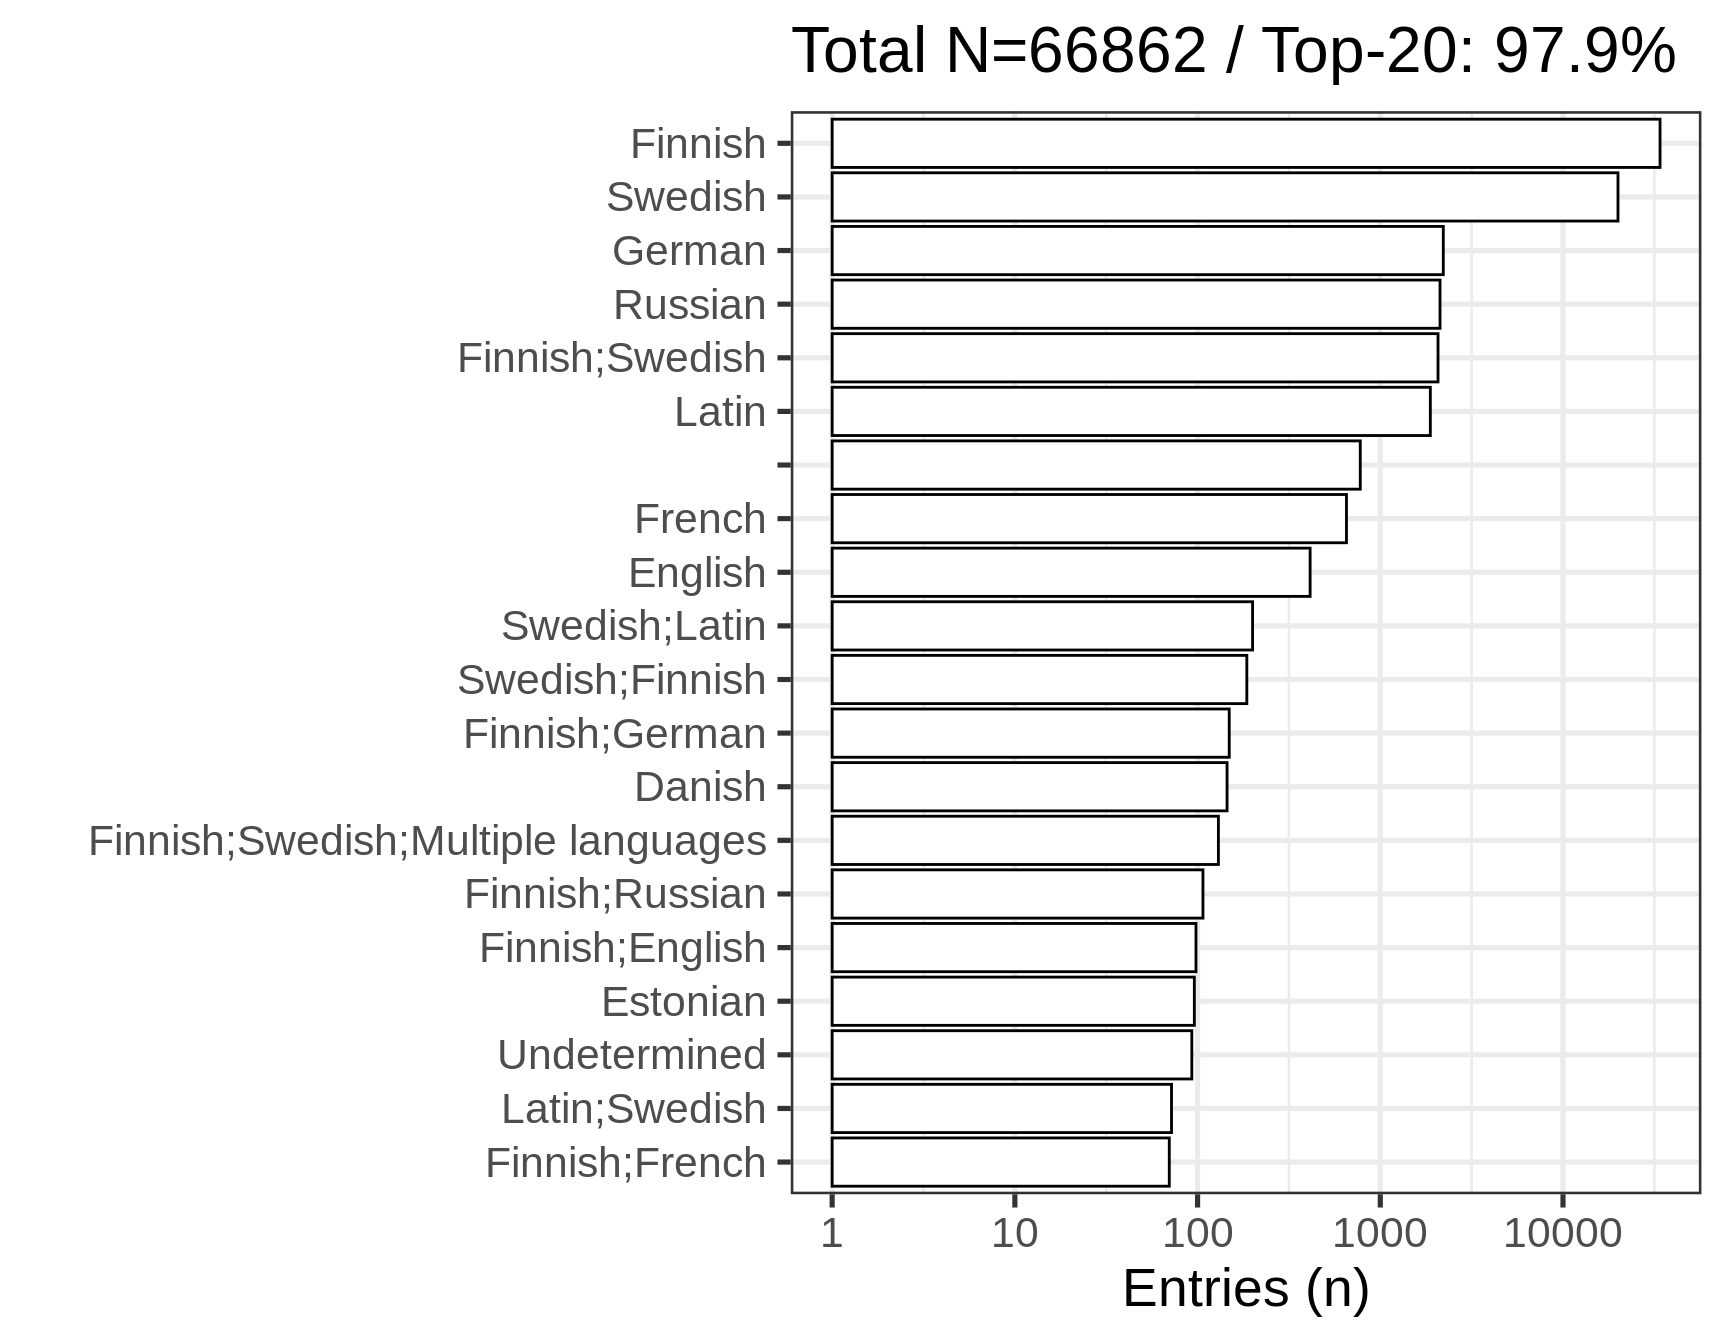
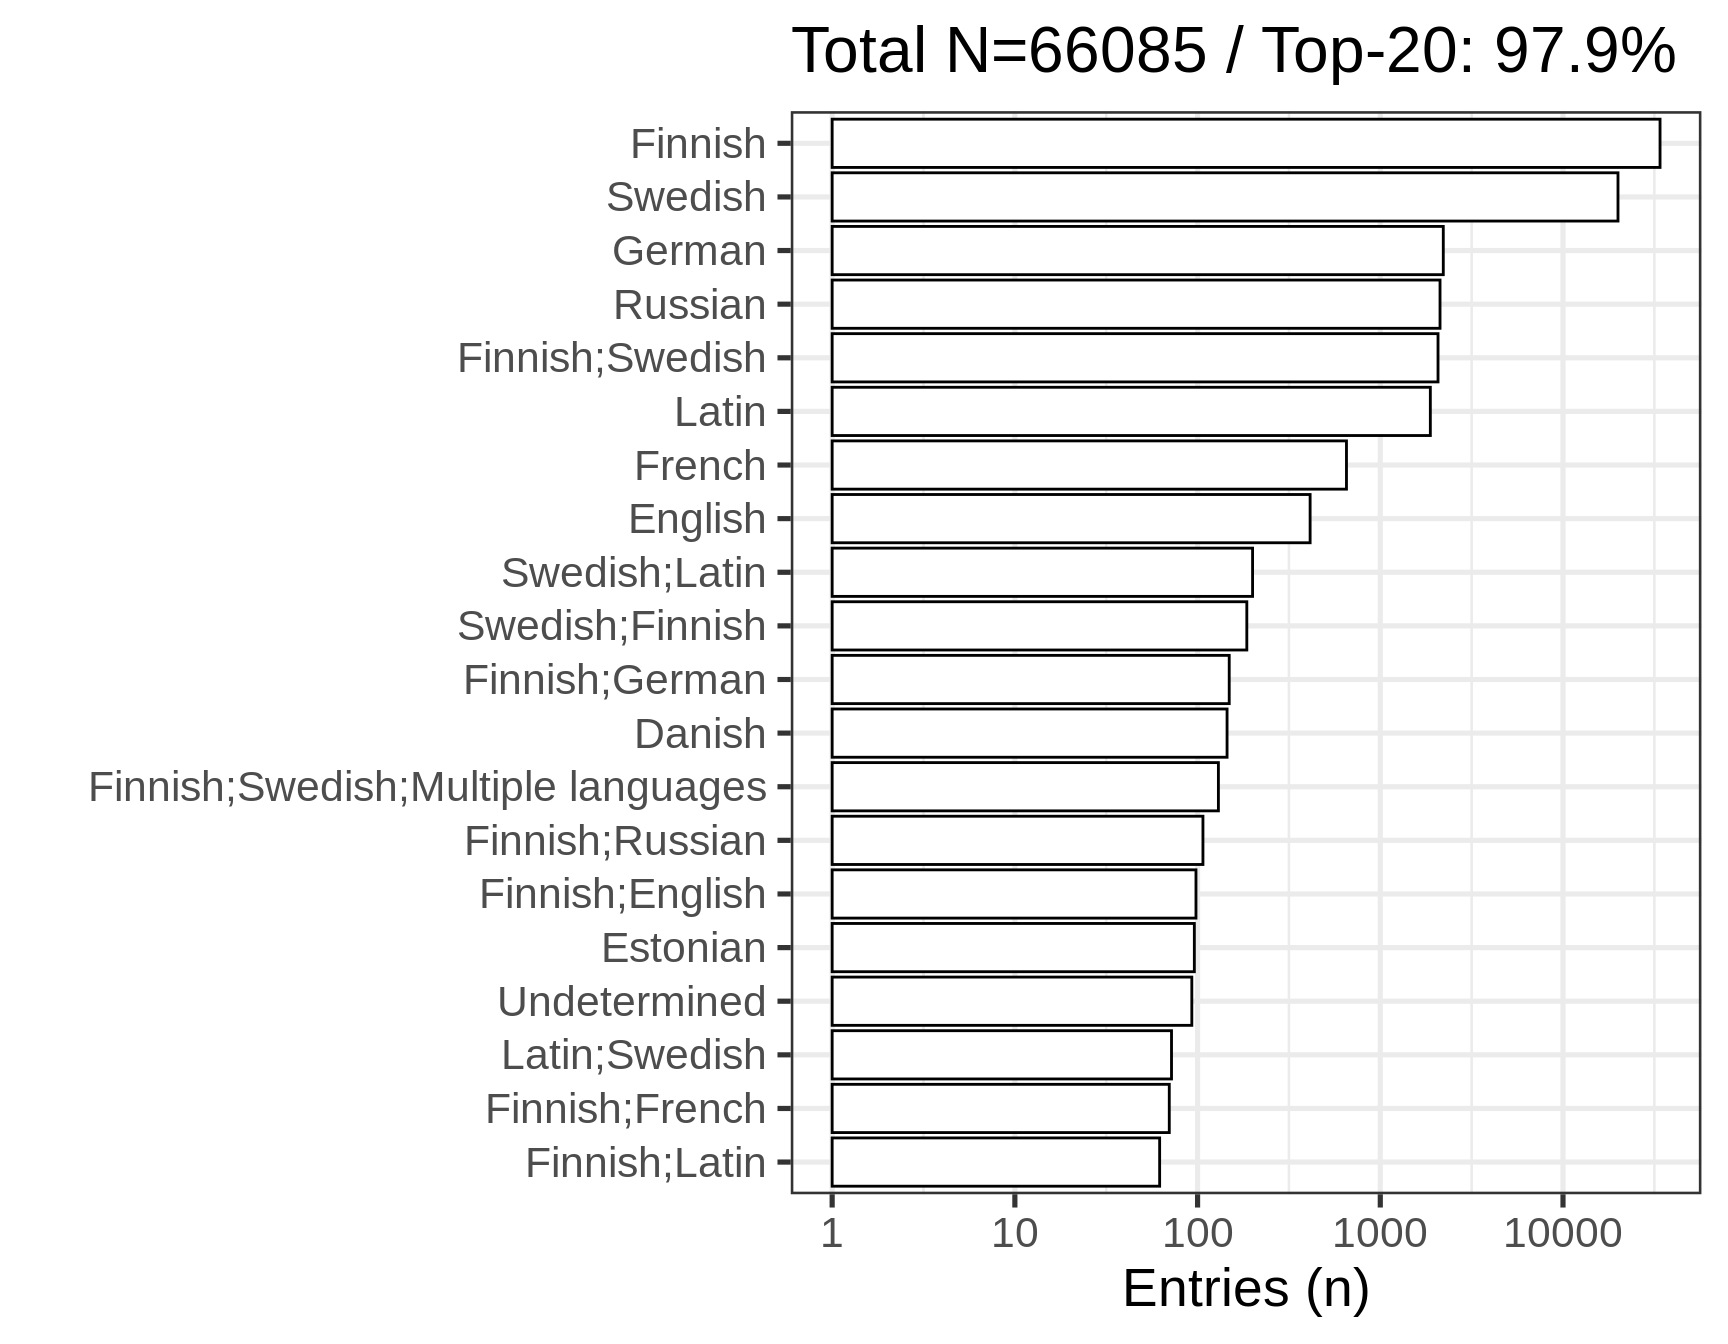
language render 2

diff --git a/inst/examples/_book/language.html b/inst/examples/_book/language.html
@@ -195,12 +195,12 @@ ul.task-list li input[type="checkbox"] {
 </section>
 <section id="complete-dataset-overview" class="level2" data-number="2.2">
 <h2 data-number="2.2" class="anchored" data-anchor-id="complete-dataset-overview"><span class="header-section-number">2.2</span> Complete Dataset Overview</h2>
-<p><a href="dataTable/data_table.html?path=https://a3s.fi/swift/v1/AUTH_3c0ccb602fa24298a6fe3ae224ca022f/fennica-container/output.tables/languages_accepted.csv">Unique languages</a>: 188</p>
-<p><a href="dataTable/data_table.html?path=https://a3s.fi/swift/v1/AUTH_3c0ccb602fa24298a6fe3ae224ca022f/fennica-container/output.tables/language_primary_accepted.csv">Unique primary languages</a>: 154</p>
-<p>1150778 single-language entries (93.56%)</p>
-<p>79147 multilingual entries , accounting for 6.44% of the total. This includes entries explicitly coded as “mul” (Multiple languages) as well as those with more than one language listed for a single book.</p>
+<p><a href="dataTable/data_table.html?path=https://a3s.fi/swift/v1/AUTH_3c0ccb602fa24298a6fe3ae224ca022f/fennica-container/output.tables/languages_accepted.csv">Unique languages</a>: 189</p>
+<p><a href="dataTable/data_table.html?path=https://a3s.fi/swift/v1/AUTH_3c0ccb602fa24298a6fe3ae224ca022f/fennica-container/output.tables/language_primary_accepted.csv">Unique primary languages</a>: 155</p>
+<p>1096354 single-language entries (93.27%)</p>
+<p>79147 multilingual entries , accounting for 6.73% of the total. This includes entries explicitly coded as “mul” (Multiple languages) as well as those with more than one language listed for a single book.</p>
 <p>There are 930 single-language entries marked as only “Undetermined”, coded as “und”, accounting for (0.08%) of the total.</p>
-<p>There are 0 missing values in the dataset,accounting for (0%) of the total.</p>
+<p>There are 54424 missing values in the dataset,accounting for (4.42%) of the total.</p>
 <p><a href="dataTable/data_table.html?path=https://a3s.fi/swift/v1/AUTH_3c0ccb602fa24298a6fe3ae224ca022f/fennica-container/output.tables/language_discarded.csv">Unrecognized languages</a> provides details of languages that were discarded, in total: 24. Additionally, the <a href="dataTable/data_table.html?path=https://a3s.fi/swift/v1/AUTH_3c0ccb602fa24298a6fe3ae224ca022f/fennica-container/output.tables/language_discarded_id.csv">Error list</a> contains ID numbers of entries associated with these discarded languages, intended for librarian review.</p>
 <p><a href="dataTable/data_table.html?path=https://a3s.fi/swift/v1/AUTH_3c0ccb602fa24298a6fe3ae224ca022f/fennica-container/output.tables/full_language_name_accepted.csv">Conversions from raw to preprocessed language entries</a></p>
 <p>New custom abbreviations can be added in <a href="dataTable/data_table.html?path=https://a3s.fi/swift/v1/AUTH_3c0ccb602fa24298a6fe3ae224ca022f/fennica-container/output.tables/language_abbreviations.csv">this table</a>.</p>
@@ -208,12 +208,12 @@ ul.task-list li input[type="checkbox"] {
 </section>
 <section id="subset-analysis-1809-1917" class="level2" data-number="2.3">
 <h2 data-number="2.3" class="anchored" data-anchor-id="subset-analysis-1809-1917"><span class="header-section-number">2.3</span> Subset Analysis: 1809-1917</h2>
-<p><a href="dataTable/data_table.html?path=https://a3s.fi/swift/v1/AUTH_3c0ccb602fa24298a6fe3ae224ca022f/fennica-container/output.tables/languages_accepted_19.csv">Unique languages (1809-1917)</a>: 55</p>
+<p><a href="dataTable/data_table.html?path=https://a3s.fi/swift/v1/AUTH_3c0ccb602fa24298a6fe3ae224ca022f/fennica-container/output.tables/languages_accepted_19.csv">Unique languages (1809-1917)</a>: 56</p>
 <p><a href="dataTable/data_table.html?path=https://a3s.fi/swift/v1/AUTH_3c0ccb602fa24298a6fe3ae224ca022f/fennica-container/output.tables/language_primary_accepted_19.csv">Unique primary languages (1809-1917)</a>: 40</p>
-<p>62674 single-language entries (93.74%)</p>
-<p>4188 multilingual entries , accounting for 6.26% of the total. This includes entries explicitly coded as “mul” (Multiple languages) as well as those with more than one language listed for a single book.</p>
+<p>61897 single-language entries (93.66%)</p>
+<p>4188 multilingual entries , accounting for 6.34% of the total. This includes entries explicitly coded as “mul” (Multiple languages) as well as those with more than one language listed for a single book.</p>
 <p>There are 93 entries marked as “Undetermined”.</p>
-<p>There are 0 missing values in the dataset,accounting for (0%) of the total.</p>
+<p>There are 777 missing values in the dataset,accounting for (1.16%) of the total.</p>
 <p><a href="https://a3s.fi/swift/v1/AUTH_3c0ccb602fa24298a6fe3ae224ca022f/fennica-container/output.tables/language_19.csv">Download language harmonized dataset (1809-1917)</a></p>
 <section id="top-languages-for-1809-1917" class="level3" data-number="2.3.1">
 <h3 data-number="2.3.1" class="anchored" data-anchor-id="top-languages-for-1809-1917"><span class="header-section-number">2.3.1</span> Top languages for 1809-1917</h3>
@@ -259,23 +259,23 @@ ul.task-list li input[type="checkbox"] {
 <td style="text-align: left;">0.2</td>
 </tr>
 <tr class="odd">
-<td style="text-align: left;"></td>
-<td style="text-align: left;">777</td>
-<td style="text-align: left;">0.1</td>
-</tr>
-<tr class="even">
 <td style="text-align: left;">French</td>
 <td style="text-align: left;">653</td>
 <td style="text-align: left;">0.1</td>
 </tr>
-<tr class="odd">
+<tr class="even">
 <td style="text-align: left;">English</td>
 <td style="text-align: left;">413</td>
 <td style="text-align: left;">0</td>
 </tr>
-<tr class="even">
+<tr class="odd">
 <td style="text-align: left;">Swedish;Latin</td>
 <td style="text-align: left;">200</td>
+<td style="text-align: left;">0</td>
+</tr>
+<tr class="even">
+<td style="text-align: left;">Swedish;Finnish</td>
+<td style="text-align: left;">186</td>
 <td style="text-align: left;">0</td>
 </tr>
 </tbody>
